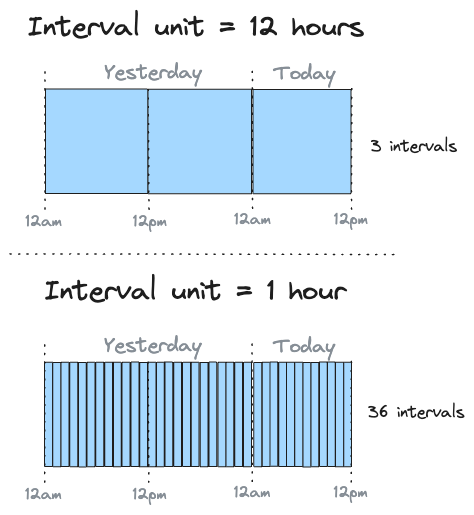
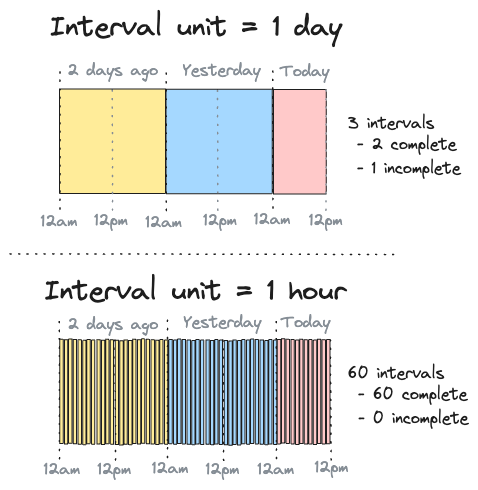
Update and expand figures

diff --git a/docs/guides/incremental_time.md b/docs/guides/incremental_time.md
@@ -24,21 +24,48 @@ SQLMesh takes a different approach by using time *intervals*.
 
 The first step to using time intervals is to create the set of all intervals based on the model's *start datetime* and *interval unit*. The start datetime specifies when time "begins" for the model, and interval unit specifies how finely time should be divided.
 
-For example, consider a model with a start datetime of 12am yesterday and an interval unit of 12 hours. We are working with the model today at 12pm.
+For example, consider a model with a start datetime of 12am two days ago that we are working with today at 12pm. This is illustrated in Figure 1:
 
-The model's set of intervals would have 3 entries: 1 for the first half of yesterday, 1 for the second half of yesterday, and one for today. This is illustrated in the top panel of Figure 1.
+![Illustration of model with start datetime of 12am two days ago that we are working with today at 12pm](./incremental_time/interval-example.png)
 
-If the model's interval unit was 1 hour, its set of time intervals would have 36 entries: 24 for each hour of yesterday and 12 for each hour today from 12am to 12pm. This is illustrated in the bottom panel of Figure 1.
+*__Figure 1: Illustration of model with start datetime of 12am two days ago that we are working with today at 12pm__*
 
-![Illustration of counting intervals over a 36 hour period with interval units of 12 hours and 1 hour](./incremental_time/interval-counting.png)
+<br>
 
-_Figure 1: Illustration of counting intervals over a 36 hour period with interval units of 12 hours and 1 hour_
+If the model's interval unit was 1 day, the model's set of intervals would have 3 entries:
 
-When we first execute and backfill the bottom model as part of a `sqlmesh plan` today at 12pm, SQLMesh calculates its set of 36 time intervals and records that all 36 of them were backfilled. It retains this information in the SQLMesh state tables for future use.
+- 1 for two days ago
+- 1 for yesterday
+- 1 for today
 
-If we `sqlmesh run` the model tomorrow at 12pm, SQLMesh calculates the set of all intervals as (24 for day 1) + (24 for day 2) + (12 for today 12am to 12pm) = 60 intervals.
+Today's interval is not yet complete because it's 12pm right now. This is illustrated in the top panel of Figure 2:
 
-It compares this set of 60 to the stored set of 36 that we already backfilled to identify the 24 un-processed intervals from 12pm yesterday to 12pm today. It then processes only those 24 intervals during today's run.
+![Illustration of counting intervals over a 36 hour period with interval units of 1 day and 1 hour](./incremental_time/interval-counting.png)
+
+*__Figure 2: Illustration of counting intervals over a 36 hour period with interval units of 1 day and 1 hour__*
+
+<br>
+
+If the model's interval unit was 1 hour instead, its set of time intervals would have 60 entries:
+
+- 24 for each hour of two days ago
+- 24 for each hour of yesterday
+- 12 for each hour today from 12am to 12pm
+
+All intervals are complete because it is 12pm (so the 11am interval has ended). This is illustrated in the bottom panel of Figure 2.
+
+When we first execute and backfill the bottom model as part of a `sqlmesh plan` today at 12pm, SQLMesh calculates its set of 60 time intervals and records that all 60 of them were backfilled. It retains this information in the SQLMesh state tables for future use.
+
+If we `sqlmesh run` the model *tomorrow* at 12pm, SQLMesh calculates the set of all intervals as:
+
+- 24 for two days ago
+- 24 for yesterday
+- 24 for today
+- 12 for tomorrow 12am to 12pm
+
+This gives a total of 84 intervals.
+
+It compares this set of 84 to the stored set of 60 that we already backfilled to identify the 24 un-processed intervals from 12pm yesterday to 12pm today. It then processes only those 24 intervals during today's run.
 
 ## Running `run`
 
@@ -66,7 +93,7 @@ This example shows an incremental by time model that could be added to the SQLMe
 MODEL (
     name sqlmesh_example.new_model,
     kind incremental_by_time_range (
-        time_column (ds, '%Y-%m-%d'), -- Time column is `ds`
+        time_column (ds, '%Y-%m-%d'), -- Time column `ds` with format '%Y-%m-%d'
     ),
 );
 
@@ -126,4 +153,4 @@ WHERE
     ds BETWEEN @start_ds and @end_ds
 ```
 
-Alternatively, all the changes contained in a plan can be classified as forward-only with a flag: `sqlmesh plan --forward-only`. Learn more about forward-only plans [here](../concepts/plans.md#forward-only-plans).
+Alternatively, all the changes contained in a *specific plan* can be classified as forward-only with a flag: `sqlmesh plan --forward-only`. A subsequent plan that did not include the forward-only flag would fully refresh the model's physical table. Learn more about forward-only plans [here](../concepts/plans.md#forward-only-plans).
